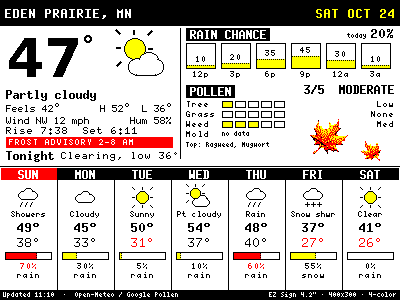
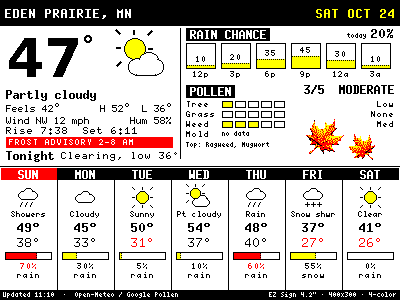
Weather: second leaf larger (38 px) and closer to the first
Claude-Session: https://claude.ai/code/session_014UobJA4ToZBu9RZ3YycZTm

Changed region(s): [[0.75, 0.39, 0.96, 0.54]]

diff --git a/tools/gen_weather.py b/tools/gen_weather.py
@@ -293,7 +293,7 @@ def render(data):
         T(d, cx - TW(d, "rain", F5) // 2, sy + 104, "rain" if day["icon"] != "snow" else "snow", F5)
     # ---- fall leaves: two sprites derived from a reference illustration (tools/make_leaf_sprite.py)
     if data.get("leaves", True):
-        for name, pos in (("leaf_52.png", (300, 112)), ("leaf_30.png", (356, 136))):
+        for name, pos in (("leaf_52.png", (296, 112)), ("leaf_38.png", (343, 128))):
             path = os.path.join(HERE, "..", "assets", name)
             if os.path.exists(path):
                 spr = Image.open(path).convert("RGBA"); im.paste(spr, pos, spr)
